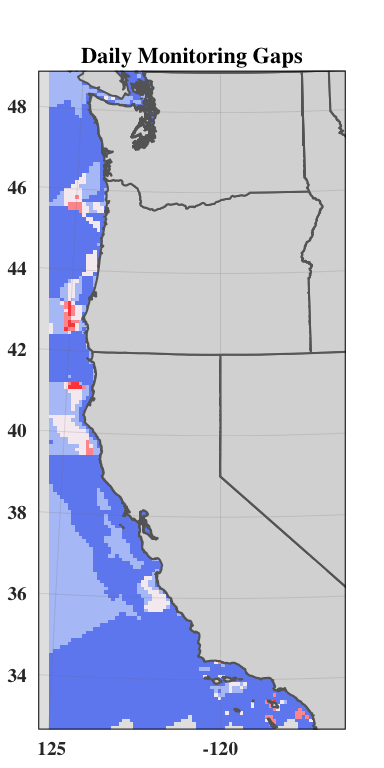
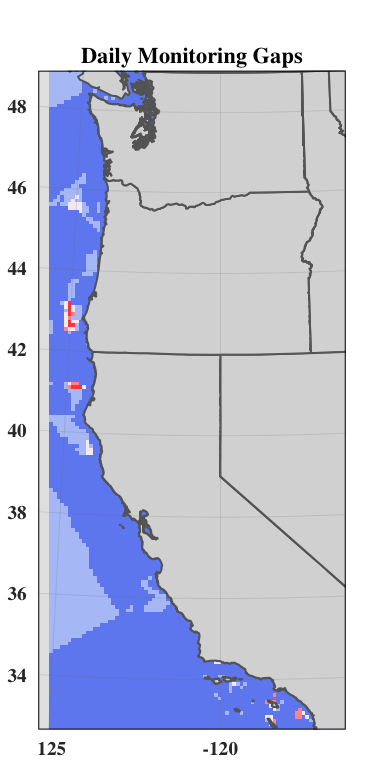
website updates for new variogram

diff --git a/gap_manuscript.html b/gap_manuscript.html
@@ -385,13 +385,17 @@ if (!dir.exists(dir_sdmdata)) dir.create(dir_sdmdata)
 
 # extent of NE Pacific study area, for cropping rasters
 ext_study &lt;- extent(-500000, 340000, -580000, 1215000)
-ext_study_alin &lt;- extent(-5000000, 340000, -580000, 350000)
-ext_study_juranek &lt;- extent(-5000000, 340000, 150000, 1215000)
 crs_study &lt;- &#39;+init=EPSG:6414&#39;
 
 ext_study_channelislands &lt;- extent (0, 300000, -600000, -400000)
 ext_study_pugetsound &lt;- extent(-300000, -150000, 1000000, 1215000)
 ext_study_oregoncoast &lt;- extent(-500000, -200000, 500000, 900000)
+
+# extent of larger area for voronoi polygons
+ext_study_vor &lt;- extent(-700000, 340000, -800000, 1305000)
+ext_study_alin &lt;- extent(-7000000, 340000, -800000, 350000)
+ext_study_juranek &lt;- extent(-7000000, 340000, 150000, 1305000)
+
 
 # import shapefiles for cropping to coast
 poly_coast&lt;- readOGR(dsn=path.expand(&quot;/Users/raetaylor-burns/downloads/Export_Output_2&quot;), layer=&quot;Export_Output_2&quot;)</code></pre>
@@ -423,12 +427,144 @@ r_sst_min &lt;- lyr_to_tif(
   tif = here(&quot;data/sst_min.tif&quot;),
   crs = crs_study,
   dir_sdm_cache = dir_sdmdata,
-  extent_crop   = ext_study, 
+  extent_crop   = ext_study_vor, 
   redo=T, fill_na=TRUE, fill_window=11)</code></pre>
 <pre><code>## lyr_to_tif() messages...</code></pre>
 <pre><code>##   loading layer from sdmpredictors and projecting</code></pre>
 <pre><code>## Warning in rgdal::rawTransform(projto_int, projfrom, nrow(xy), xy[, 1], :
-## 1834961 projected point(s) not finite</code></pre>
+## 5306 projected point(s) not finite</code></pre>
+<pre><code>## Warning in rgdal::rawTransform(projto_int, projfrom, nrow(xy), xy[, 1], :
+## 4656 projected point(s) not finite</code></pre>
+<pre><code>## Warning in rgdal::rawTransform(projto_int, projfrom, nrow(xy), xy[, 1], :
+## 4057 projected point(s) not finite</code></pre>
+<pre><code>## Warning in rgdal::rawTransform(projto_int, projfrom, nrow(xy), xy[, 1], :
+## 10409 projected point(s) not finite</code></pre>
+<pre><code>## Warning in rgdal::rawTransform(projto_int, projfrom, nrow(xy), xy[, 1], :
+## 15796 projected point(s) not finite</code></pre>
+<pre><code>## Warning in rgdal::rawTransform(projto_int, projfrom, nrow(xy), xy[, 1], :
+## 18821 projected point(s) not finite</code></pre>
+<pre><code>## Warning in rgdal::rawTransform(projto_int, projfrom, nrow(xy), xy[, 1], :
+## 21010 projected point(s) not finite</code></pre>
+<pre><code>## Warning in rgdal::rawTransform(projto_int, projfrom, nrow(xy), xy[, 1], :
+## 22695 projected point(s) not finite</code></pre>
+<pre><code>## Warning in rgdal::rawTransform(projto_int, projfrom, nrow(xy), xy[, 1], :
+## 24032 projected point(s) not finite</code></pre>
+<pre><code>## Warning in rgdal::rawTransform(projto_int, projfrom, nrow(xy), xy[, 1], :
+## 25093 projected point(s) not finite</code></pre>
+<pre><code>## Warning in rgdal::rawTransform(projto_int, projfrom, nrow(xy), xy[, 1], :
+## 25943 projected point(s) not finite</code></pre>
+<pre><code>## Warning in rgdal::rawTransform(projto_int, projfrom, nrow(xy), xy[, 1], :
+## 26611 projected point(s) not finite</code></pre>
+<pre><code>## Warning in rgdal::rawTransform(projto_int, projfrom, nrow(xy), xy[, 1], :
+## 27109 projected point(s) not finite</code></pre>
+<pre><code>## Warning in rgdal::rawTransform(projto_int, projfrom, nrow(xy), xy[, 1], :
+## 27460 projected point(s) not finite</code></pre>
+<pre><code>## Warning in rgdal::rawTransform(projto_int, projfrom, nrow(xy), xy[, 1], :
+## 27676 projected point(s) not finite</code></pre>
+<pre><code>## Warning in rgdal::rawTransform(projto_int, projfrom, nrow(xy), xy[, 1], :
+## 27749 projected point(s) not finite</code></pre>
+<pre><code>## Warning in rgdal::rawTransform(projto_int, projfrom, nrow(xy), xy[, 1], :
+## 27703 projected point(s) not finite</code></pre>
+<pre><code>## Warning in rgdal::rawTransform(projto_int, projfrom, nrow(xy), xy[, 1], :
+## 27528 projected point(s) not finite</code></pre>
+<pre><code>## Warning in rgdal::rawTransform(projto_int, projfrom, nrow(xy), xy[, 1], :
+## 27207 projected point(s) not finite</code></pre>
+<pre><code>## Warning in rgdal::rawTransform(projto_int, projfrom, nrow(xy), xy[, 1], :
+## 26745 projected point(s) not finite</code></pre>
+<pre><code>## Warning in rgdal::rawTransform(projto_int, projfrom, nrow(xy), xy[, 1], :
+## 26123 projected point(s) not finite</code></pre>
+<pre><code>## Warning in rgdal::rawTransform(projto_int, projfrom, nrow(xy), xy[, 1], :
+## 25316 projected point(s) not finite</code></pre>
+<pre><code>## Warning in rgdal::rawTransform(projto_int, projfrom, nrow(xy), xy[, 1], :
+## 24311 projected point(s) not finite</code></pre>
+<pre><code>## Warning in rgdal::rawTransform(projto_int, projfrom, nrow(xy), xy[, 1], :
+## 23048 projected point(s) not finite</code></pre>
+<pre><code>## Warning in rgdal::rawTransform(projto_int, projfrom, nrow(xy), xy[, 1], :
+## 21460 projected point(s) not finite</code></pre>
+<pre><code>## Warning in rgdal::rawTransform(projto_int, projfrom, nrow(xy), xy[, 1], :
+## 19413 projected point(s) not finite</code></pre>
+<pre><code>## Warning in rgdal::rawTransform(projto_int, projfrom, nrow(xy), xy[, 1], :
+## 16642 projected point(s) not finite</code></pre>
+<pre><code>## Warning in rgdal::rawTransform(projto_int, projfrom, nrow(xy), xy[, 1], :
+## 12273 projected point(s) not finite</code></pre>
+<pre><code>## Warning in rgdal::rawTransform(projto_int, projfrom, nrow(xy), xy[, 1], :
+## 4647 projected point(s) not finite</code></pre>
+<pre><code>## Warning in rgdal::rawTransform(projto_int, projfrom, nrow(xy), xy[, 1], :
+## 4506 projected point(s) not finite</code></pre>
+<pre><code>## Warning in rgdal::rawTransform(projto_int, projfrom, nrow(xy), xy[, 1], :
+## 5144 projected point(s) not finite</code></pre>
+<pre><code>## Warning in rgdal::rawTransform(projto_int, projfrom, nrow(xy), xy[, 1], :
+## 5826 projected point(s) not finite</code></pre>
+<pre><code>## Warning in rgdal::rawTransform(projto_int, projfrom, nrow(xy), xy[, 1], :
+## 6564 projected point(s) not finite</code></pre>
+<pre><code>## Warning in rgdal::rawTransform(projto_int, projfrom, nrow(xy), xy[, 1], :
+## 7349 projected point(s) not finite</code></pre>
+<pre><code>## Warning in rgdal::rawTransform(projto_int, projfrom, nrow(xy), xy[, 1], :
+## 8185 projected point(s) not finite</code></pre>
+<pre><code>## Warning in rgdal::rawTransform(projto_int, projfrom, nrow(xy), xy[, 1], :
+## 9078 projected point(s) not finite</code></pre>
+<pre><code>## Warning in rgdal::rawTransform(projto_int, projfrom, nrow(xy), xy[, 1], :
+## 10019 projected point(s) not finite</code></pre>
+<pre><code>## Warning in rgdal::rawTransform(projto_int, projfrom, nrow(xy), xy[, 1], :
+## 11020 projected point(s) not finite</code></pre>
+<pre><code>## Warning in rgdal::rawTransform(projto_int, projfrom, nrow(xy), xy[, 1], :
+## 12078 projected point(s) not finite</code></pre>
+<pre><code>## Warning in rgdal::rawTransform(projto_int, projfrom, nrow(xy), xy[, 1], :
+## 13194 projected point(s) not finite</code></pre>
+<pre><code>## Warning in rgdal::rawTransform(projto_int, projfrom, nrow(xy), xy[, 1], :
+## 14373 projected point(s) not finite</code></pre>
+<pre><code>## Warning in rgdal::rawTransform(projto_int, projfrom, nrow(xy), xy[, 1], :
+## 15616 projected point(s) not finite</code></pre>
+<pre><code>## Warning in rgdal::rawTransform(projto_int, projfrom, nrow(xy), xy[, 1], :
+## 16922 projected point(s) not finite</code></pre>
+<pre><code>## Warning in rgdal::rawTransform(projto_int, projfrom, nrow(xy), xy[, 1], :
+## 18300 projected point(s) not finite</code></pre>
+<pre><code>## Warning in rgdal::rawTransform(projto_int, projfrom, nrow(xy), xy[, 1], :
+## 19750 projected point(s) not finite</code></pre>
+<pre><code>## Warning in rgdal::rawTransform(projto_int, projfrom, nrow(xy), xy[, 1], :
+## 21272 projected point(s) not finite</code></pre>
+<pre><code>## Warning in rgdal::rawTransform(projto_int, projfrom, nrow(xy), xy[, 1], :
+## 22879 projected point(s) not finite</code></pre>
+<pre><code>## Warning in rgdal::rawTransform(projto_int, projfrom, nrow(xy), xy[, 1], :
+## 24566 projected point(s) not finite</code></pre>
+<pre><code>## Warning in rgdal::rawTransform(projto_int, projfrom, nrow(xy), xy[, 1], :
+## 26341 projected point(s) not finite</code></pre>
+<pre><code>## Warning in rgdal::rawTransform(projto_int, projfrom, nrow(xy), xy[, 1], :
+## 28211 projected point(s) not finite</code></pre>
+<pre><code>## Warning in rgdal::rawTransform(projto_int, projfrom, nrow(xy), xy[, 1], :
+## 30182 projected point(s) not finite</code></pre>
+<pre><code>## Warning in rgdal::rawTransform(projto_int, projfrom, nrow(xy), xy[, 1], :
+## 32259 projected point(s) not finite</code></pre>
+<pre><code>## Warning in rgdal::rawTransform(projto_int, projfrom, nrow(xy), xy[, 1], :
+## 34459 projected point(s) not finite</code></pre>
+<pre><code>## Warning in rgdal::rawTransform(projto_int, projfrom, nrow(xy), xy[, 1], :
+## 36782 projected point(s) not finite</code></pre>
+<pre><code>## Warning in rgdal::rawTransform(projto_int, projfrom, nrow(xy), xy[, 1], :
+## 39243 projected point(s) not finite</code></pre>
+<pre><code>## Warning in rgdal::rawTransform(projto_int, projfrom, nrow(xy), xy[, 1], :
+## 41861 projected point(s) not finite</code></pre>
+<pre><code>## Warning in rgdal::rawTransform(projto_int, projfrom, nrow(xy), xy[, 1], :
+## 44654 projected point(s) not finite</code></pre>
+<pre><code>## Warning in rgdal::rawTransform(projto_int, projfrom, nrow(xy), xy[, 1], :
+## 47638 projected point(s) not finite</code></pre>
+<pre><code>## Warning in rgdal::rawTransform(projto_int, projfrom, nrow(xy), xy[, 1], :
+## 50840 projected point(s) not finite</code></pre>
+<pre><code>## Warning in rgdal::rawTransform(projto_int, projfrom, nrow(xy), xy[, 1], :
+## 54313 projected point(s) not finite</code></pre>
+<pre><code>## Warning in rgdal::rawTransform(projto_int, projfrom, nrow(xy), xy[, 1], :
+## 58091 projected point(s) not finite</code></pre>
+<pre><code>## Warning in rgdal::rawTransform(projto_int, projfrom, nrow(xy), xy[, 1], :
+## 62252 projected point(s) not finite</code></pre>
+<pre><code>## Warning in rgdal::rawTransform(projto_int, projfrom, nrow(xy), xy[, 1], :
+## 66902 projected point(s) not finite</code></pre>
+<pre><code>## Warning in rgdal::rawTransform(projto_int, projfrom, nrow(xy), xy[, 1], :
+## 72213 projected point(s) not finite</code></pre>
+<pre><code>## Warning in rgdal::rawTransform(projto_int, projfrom, nrow(xy), xy[, 1], :
+## 78509 projected point(s) not finite</code></pre>
+<pre><code>## Warning in rgdal::rawTransform(projto_int, projfrom, nrow(xy), xy[, 1], :
+## 86521 projected point(s) not finite</code></pre>
+<pre><code>## Warning in rgdal::rawTransform(projto_int, projfrom, nrow(xy), xy[, 1], :
+## 100210 projected point(s) not finite</code></pre>
 <pre><code>##   cropping raster to extent</code></pre>
 <pre><code>##   filling in missing (NA) values with focal window</code></pre>
 <pre><code>##   writing raster to tif</code></pre>
@@ -446,12 +582,24 @@ r_do_min &lt;- lyr_to_tif(
   tif = here(&quot;data/do_min.tif&quot;),
   crs = crs_study,
   dir_sdm_cache = dir_sdmdata,
-  extent_crop   = ext_study, 
+  extent_crop   = ext_study_vor, 
   redo=T, fill_na=TRUE, fill_window=11)</code></pre>
 <pre><code>## lyr_to_tif() messages...</code></pre>
 <pre><code>##   loading layer from sdmpredictors and projecting</code></pre>
 <pre><code>## Warning in rgdal::rawTransform(projto_int, projfrom, nrow(xy), xy[, 1], :
-## 1834961 projected point(s) not finite</code></pre>
+## 158873 projected point(s) not finite</code></pre>
+<pre><code>## Warning in rgdal::rawTransform(projto_int, projfrom, nrow(xy), xy[, 1], :
+## 279070 projected point(s) not finite</code></pre>
+<pre><code>## Warning in rgdal::rawTransform(projto_int, projfrom, nrow(xy), xy[, 1], :
+## 167562 projected point(s) not finite</code></pre>
+<pre><code>## Warning in rgdal::rawTransform(projto_int, projfrom, nrow(xy), xy[, 1], :
+## 100038 projected point(s) not finite</code></pre>
+<pre><code>## Warning in rgdal::rawTransform(projto_int, projfrom, nrow(xy), xy[, 1], :
+## 234155 projected point(s) not finite</code></pre>
+<pre><code>## Warning in rgdal::rawTransform(projto_int, projfrom, nrow(xy), xy[, 1], :
+## 467762 projected point(s) not finite</code></pre>
+<pre><code>## Warning in rgdal::rawTransform(projto_int, projfrom, nrow(xy), xy[, 1], :
+## 427501 projected point(s) not finite</code></pre>
 <pre><code>##   cropping raster to extent</code></pre>
 <pre><code>##   filling in missing (NA) values with focal window</code></pre>
 <pre><code>##   writing raster to tif</code></pre>
@@ -487,16 +635,8 @@ alin_arag &lt;- a0 + a1 * (r_sst_min_alin-atr) + a2 * (r_do_min_alin-ao2r) + a3 
 <div id="create-variogram" class="section level4">
 <h4>Create variogram</h4>
 <p>To quantify the relationship between changing aragonite saturation state and distance, the aragonite saturation state raster was used to create a semivariogram. The semi-variogram describes how the semi-variance of a parameter increases with distance, revealing information on the spatial scale of decorrelation of that parameter. In this analysis, we used it to determine the relationship between variance in aragonite saturation state and distance. The semi-variogram revealed that the semi-variance in aragonite saturation state saturates (i.e. semi-variance ceases to increase as distance increases) at a distance of 2000 km, and a maximum semi-variance of 0.12 is reached at that point. We used a linear interpolation between the origin and the saturation point to relate variance in aragonite saturation state and distance.</p>
-<pre class="r"><code>aragdf &lt;- as.data.frame(arag, xy = TRUE)
-aragdf &lt;- aragdf %&gt;% #remove N/A values
-  mutate(layer=replace(layer, layer==-999.000, NA)) %&gt;%
-  na.omit(aragdf)
-coordinates(aragdf)&lt;-  ~ x + y #transform into spatial points
-aragvar &lt;- variogram(layer~1, aragdf)
-
-aragfit&lt;-fit.variogram(aragvar,model=vgm(nugget=0, psill=0.12,range=200000,model=&quot;Exp&quot;))
-
-plot(aragvar, aragfit)</code></pre>
+<pre class="r"><code>aragvar &lt;- Variogram(arag, lag = 5000)
+plot(aragvar)</code></pre>
 <p><img src="gap_manuscript_files/figure-html/variogram-1.png" width="672" /></p>
 </div>
 </div>
@@ -659,24 +799,39 @@ highfreqvij &lt;- (arag-highfreqpolygonarag)^2/2</code></pre>
 <div id="oceanographic-distance" class="section level4">
 <h4>Oceanographic distance</h4>
 <p>The inverse of the linear relationship from the semi-variogram was applied to the semi-variance calculated above, yielding a map showing the “oceanographic distance” between each cell in our study region and the nearest monitoring asset. We define oceanographic distance as the effective distance between any location and the nearest monitoring asset, based on the similarity of oceanographic conditions that determine OA conditions between the two locations. A cell with high oceanographic distance has different acidification conditions than the nearest monitoring asset, and a cell with low oceanographic distance has similar acidification conditions to the nearest monitoring asset.</p>
-<pre class="r"><code>plot(aragvar, aragfit)</code></pre>
+<pre class="r"><code>#variogram does not saturate: develop an equation to describe relationship using square root function...
+
+sqrootmodel &lt;- lm(aragvar@variogram[[&quot;gamma&quot;]] ~ 0 + I(sqrt(aragvar@variogram[[&quot;distance&quot;]])))
+
+#p value &lt; 2e-16
+
+xbar&lt;-aragvar@variogram[[&quot;distance&quot;]]
+ybar&lt;-sqrt(xbar)*sqrootmodel$coefficients[1]
+
+ggplot()+
+  geom_point(aes(aragvar@variogram[[&quot;distance&quot;]], aragvar@variogram[[&quot;gamma&quot;]]), color = &quot;red&quot;)+
+  geom_point(aes(xbar, ybar), color = &quot;blue&quot;)+
+  ylim(0, 0.15)+
+  theme_bw()+
+  ggtitle(&#39;Variogram (red) and predictive model (blue)&#39;)+
+  xlab(&#39;Distance Between Points (m)&#39;)+
+  ylab(&#39;Semivariance of Aragonite Discrepancy&#39;)+
+  theme(text = element_text(size = 10, family=&quot;serif&quot;))</code></pre>
 <p><img src="gap_manuscript_files/figure-html/oceanographic%20distance-1.png" width="672" /></p>
-<pre class="r"><code>#variogram saturates at ~0.12
-#sill = 0.12
-#range = 200000
+<pre class="r"><code>#find inverse of nonlinear model:
+#semivariance = 0.0001504855 * sqrt(distance)
+#distance = (semivariance/0.0001504855)^2
 
-slope = 200000/0.12
-
-oceanographicdistance = slope * vij
-carbcompleteoceanographicdistance = slope * carbcompletevij
-highfreqoceanographicdistance = slope * highfreqvij</code></pre>
+oceanographicdistance = (vij/0.0001504855)^2/(1000^2)
+carbcompleteoceanographicdistance = (carbcompletevij/0.0001504855)^2/(1000^2)
+highfreqoceanographicdistance = (highfreqvij/0.0001504855)^2/(1000^2)</code></pre>
 </div>
 <div id="geographic-distance" class="section level4">
 <h4>Geographic distance</h4>
 <p>Determine geographic distance from the nearest monitoring point</p>
-<pre class="r"><code>distance&lt;-distanceFromPoints(oceanographicdistance, inventorycoords)
-carbcompletedistance&lt;-distanceFromPoints(carbcompleteoceanographicdistance, carbcompletecoords)
-highfreqdistance&lt;-distanceFromPoints(highfreqoceanographicdistance, highfreqcoords)</code></pre>
+<pre class="r"><code>distance&lt;-distanceFromPoints(oceanographicdistance, inventorycoords)/1000
+carbcompletedistance&lt;-distanceFromPoints(carbcompleteoceanographicdistance, carbcompletecoords)/1000
+highfreqdistance&lt;-distanceFromPoints(highfreqoceanographicdistance, highfreqcoords)/1000</code></pre>
 </div>
 </div>
 <div id="step-4.-find-gaps" class="section level2">
@@ -688,11 +843,17 @@ highfreqdistance&lt;-distanceFromPoints(highfreqoceanographicdistance, highfreqc
 
 weight = maxValue(distance)/maxValue(oceanographicdistance)
 
-gap&lt;-(sqrt((distance)^2+(weight*oceanographicdistance)^2))/1000
+gap&lt;-(sqrt((distance)^2+(weight*oceanographicdistance)^2))
 
-carbcompletegap&lt;-(sqrt((carbcompletedistance)^2+(weight*carbcompleteoceanographicdistance)^2))/1000
+carbcompletegap&lt;-(sqrt((carbcompletedistance)^2+(weight*carbcompleteoceanographicdistance)^2))
 
-highfreqgap&lt;-(sqrt((highfreqdistance)^2+(weight*highfreqoceanographicdistance)^2))/1000</code></pre>
+highfreqgap&lt;-(sqrt((highfreqdistance)^2+(weight*highfreqoceanographicdistance)^2))
+
+gap &lt;- crop(gap, ext_study)
+
+carbcompletegap &lt;- crop(carbcompletegap, ext_study)
+
+highfreqgap &lt;- crop(highfreqgap, ext_study)</code></pre>
 </div>
 <div id="map-gaps" class="section level4">
 <h4>Map Gaps</h4>
